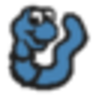
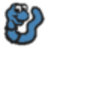
Images for worms changed for better representation on the gamefield. Second Sprite is generated. Changes to parts of the code to fix errors. Both Sprites still move together.

diff --git a/android/src/com/mygdx/game/Activities/CharacterSelect.java b/android/src/com/mygdx/game/Activities/CharacterSelect.java
@@ -8,10 +8,8 @@ import android.widget.TextView;
 
 import com.mygdx.game.Players.PlayerColor;
 import com.mygdx.game.R;
-
 import com.mygdx.game.netwoking.FromNetworkProcessor;
 import com.mygdx.game.netwoking.GameSync;
-import com.mygdx.game.netwoking.NetworkManager;
 import com.mygdx.game.netwoking.NetworkTrafficReceiver;
 
 /**
@@ -23,11 +21,15 @@ import com.mygdx.game.netwoking.NetworkTrafficReceiver;
  */
 public class CharacterSelect extends Activity {
 
+    private static final String PLAYER_READY_MESSAGE = "READY2PLAY";
+
     private Intent intent;
 
     private TextView chosenPlayer;
     private TextView playername;
     private NetworkTrafficReceiver networkTrafficReceiver;
+    private boolean otherPlayerReady = false;
+    private boolean waitingForOtherPlayer = false;
 
     private PlayerColor color;
     private PlayerColor colorOtherPlayer;
@@ -78,16 +80,43 @@ public class CharacterSelect extends Activity {
      */
     public void onClickStartGame(View view) {
 
-        if (GameSync.isMultiplayerGame() && GameSync.getState() != GameSync.GameState.OTHER_PLAYER_HAS_WORM_SELECTED) {
-            chosenPlayer.setText("Plese wait for other player");
+        //  NetworkManager.send(PLAYER_READY_MESSAGE, true); todo
+
+        if (color == null) {
+            chosenPlayer.setText("Please select worm color!");
             chosenPlayer.setVisibility(View.VISIBLE);
+            return;
         }
+
+//        if (NetworkMonitor.isConnected() && colorOtherPlayer == null) { todo
+//            setMessage("Please wait for other player");
+//            chosenPlayer.setVisibility(View.VISIBLE);
+//            return;
+//        }
+
+//        if (!otherPlayerReady) { todo
+//            setMessage("Please wait for other player!");
+//            waitingForOtherPlayer = true;
+//            return;
+//        }
+
         intent = new Intent(this, MainGameActivity.class);
 
         intent.putExtra("Player_Color", color.toString());
 
         startActivity(intent);
     }
+
+    private void setMessage(final String message) {
+        runOnUiThread(new Runnable() {
+            @Override
+            public void run() {
+                chosenPlayer.setText(message);
+                chosenPlayer.setVisibility(View.VISIBLE);
+            }
+        });
+    }
+
 
     /**
      * onClickGoBackToMenu switches from the character selection screen back
@@ -108,8 +137,8 @@ public class CharacterSelect extends Activity {
      */
     public void redButtonclicked(View view) {
 
-        chosenPlayer.setText("Es wurde die rote Spielfigur gewählt.");
-        chosenPlayer.setVisibility(View.VISIBLE);
+        setMessage("Es wurde die rote Spielfigur gewählt.");
+
 
         color = PlayerColor.RED;
         sendSelectedColor();
@@ -122,8 +151,7 @@ public class CharacterSelect extends Activity {
      */
     public void blueButtonclicked(View view) {
 
-        chosenPlayer.setText("Es wurde die blaue Spielfigur gewählt.");
-        chosenPlayer.setVisibility(View.VISIBLE);
+        setMessage("Es wurde die blaue Spielfigur gewählt.");
 
         color = PlayerColor.BLUE;
         sendSelectedColor();
@@ -136,8 +164,7 @@ public class CharacterSelect extends Activity {
      */
     public void greenButtonclicked(View view) {
 
-        chosenPlayer.setText("Es wurde die grüne Spielfigur gewählt.");
-        chosenPlayer.setVisibility(View.VISIBLE);
+        setMessage("Es wurde die grüne Spielfigur gewählt.");
 
         color = PlayerColor.GREEN;
         sendSelectedColor();
@@ -150,15 +177,14 @@ public class CharacterSelect extends Activity {
      */
     public void yellowButtonclicked(View view) {
 
-        chosenPlayer.setText("Es wurde die gelbe Spielfigur gewählt.");
-        chosenPlayer.setVisibility(View.VISIBLE);
+        setMessage("Es wurde die gelbe Spielfigur gewählt.");
 
         color = PlayerColor.YELLOW;
         sendSelectedColor();
     }
 
     private void sendSelectedColor() {
-        NetworkManager.send(color.toString(), true);
+        //NetworkManager.send(color.toString(), true); todo
     }
 
     /**
@@ -168,22 +194,22 @@ public class CharacterSelect extends Activity {
      */
     public void processMessageFromNetwork(final String inputString) {
 
+        if (inputString.equals(PLAYER_READY_MESSAGE)) {
+            this.otherPlayerReady = true;
+            if (waitingForOtherPlayer) {
+                onClickStartGame(findViewById(R.id.start_game_button));
+            } else {
+                setMessage("Other player is ready!");
+            }
+        }
+
         PlayerColor playerColor = PlayerColor.getFromString(inputString);
 
         if (playerColor != null) {
-            runOnUiThread(new Runnable() {
-                @Override
-                public void run() {
-                    chosenPlayer.setText("Other player chose worm with color: " + inputString);
-                    chosenPlayer.setVisibility(View.VISIBLE);
-                }
-            });
-
+            setMessage("Other player chose worm with color: " + inputString);
             this.colorOtherPlayer = playerColor;
             GameSync.getSync().otherPlayerHasSelectedWorm();
-
         }
-
     }
 
 }

diff --git a/android/src/com/mygdx/game/GUI/Main.java b/android/src/com/mygdx/game/GUI/Main.java
@@ -19,6 +19,7 @@ import com.mygdx.game.game.Field;
 import com.mygdx.game.game.GameField;
 import com.mygdx.game.main_controler.Controler;
 
+import java.util.ArrayList;
 import java.util.List;
 import java.util.Observable;
 import java.util.Observer;
@@ -44,7 +45,8 @@ public class Main extends ApplicationAdapter implements Observer {
     private String color3;
     private String color4;
     private static GameField gameField;
-    private final RenderPositionCalculator renderPositionCalculator;
+    private final RenderPositionCalculator renderPositionCalculator1;
+    private final RenderPositionCalculator renderPositionCalculator2;
     private static CheatCountDown cheatCountDown;
     private static int time = 0;
     private static boolean diceAnimationActive = false;
@@ -71,7 +73,8 @@ public class Main extends ApplicationAdapter implements Observer {
      */
     public Main(List<Object[]> playerList) {
         gameField = GameField.createGameField();
-        this.renderPositionCalculator = new RenderPositionCalculator(gameField);
+        this.renderPositionCalculator1 = new RenderPositionCalculator(gameField);
+        this.renderPositionCalculator2 = new RenderPositionCalculator(gameField);
         this.color1 = (String) playerList.get(0)[0];
         this.color2 = (String) playerList.get(1)[0];
         this.color3 = (String) playerList.get(2)[0];
@@ -95,9 +98,22 @@ public class Main extends ApplicationAdapter implements Observer {
 
         int numberOfPlayers = Controler.getNumberOfPlayers();
 
+        Controler.setSingleplayerBoolean(true);     //THIS IS ONLY TEMPORARY AND NEEDS TO BE REPLACED SOON!
+
         //initialisieren der Textur der Spielfigur
         texturePlayer1 = new Sprite(new Texture(Gdx.files.internal(String.format("player_%s.png", color1))));
-//        texturePlayer2 = new Sprite(new Texture(Gdx.files.internal(String.format("player_%s.png", color2))));
+        if (Controler.getSingleplayerBoolean()) {
+            if (color1.equals("red")){
+                texturePlayer2 = new Sprite(new Texture(Gdx.files.internal("player_blue.png")));
+            }
+            else {
+                texturePlayer2 = new Sprite(new Texture(Gdx.files.internal("player_red.png")));
+            }
+
+        }
+        else{
+            texturePlayer2 = new Sprite(new Texture(Gdx.files.internal(String.format("player_%s.png", color2))));
+        }
 //        texturePlayer3 = new Sprite(new Texture(Gdx.files.internal(String.format("player_%s.png", color3))));
 //        texturePlayer4 = new Sprite(new Texture(Gdx.files.internal(String.format("player_%s.png", color4))));
 
@@ -112,10 +128,14 @@ public class Main extends ApplicationAdapter implements Observer {
 
 
         //Texture des Wurms
-        playerOne = new Worm(texturePlayer1, renderPositionCalculator);
-//        playerTwo = new Worm(texturePlayer2, renderPositionCalculator);
-//        playerThree = new Worm(texturePlayer3, renderPositionCalculator);
-//        playerFour = new Worm(texturePlayer4, renderPositionCalculator);
+        playerOne = new Worm(texturePlayer1, renderPositionCalculator1);
+        playerTwo = new Worm(texturePlayer2, renderPositionCalculator2);
+//        playerThree = new Worm(texturePlayer3, renderPositionCalculator1);
+//        playerFour = new Worm(texturePlayer4, renderPositionCalculator1);
+
+        List<Worm> wormList = new ArrayList<>();
+        wormList.add(playerOne);
+        wormList.add(playerTwo);
 
 
         // gibt jedem einzelnen Feld des Spielfelds ein Texture
@@ -136,7 +156,7 @@ public class Main extends ApplicationAdapter implements Observer {
         for (int i = 1; i <= fields.size(); i++) {
 
 
-            SingleField singleField = new SingleField(tile1, renderPositionCalculator, i);
+            SingleField singleField = new SingleField(tile1, renderPositionCalculator1, i);
             stage.addActor(singleField);
         }
 
@@ -149,7 +169,7 @@ public class Main extends ApplicationAdapter implements Observer {
 
         for (int i = 0; i < elevatorFields.length; i++) {
 
-            SingleField singleField = new SingleField(tile2, renderPositionCalculator, elevatorFields[i]);
+            SingleField singleField = new SingleField(tile2, renderPositionCalculator1, elevatorFields[i]);
             stage.addActor(singleField);
         }
 
@@ -165,6 +185,10 @@ public class Main extends ApplicationAdapter implements Observer {
         Gdx.gl.glClear(GL20.GL_COLOR_BUFFER_BIT);
 
         stage.addActor(playerOne);
+
+        if (Controler.getSingleplayerBoolean()) {
+            stage.addActor(playerTwo);
+        }
 
         stage.addActor(cheatCountDown);
 

diff --git a/android/src/com/mygdx/game/game/GameField.java b/android/src/com/mygdx/game/game/GameField.java
@@ -3,6 +3,8 @@ package com.mygdx.game.game;
 
 import android.util.Log;
 
+import com.mygdx.game.main_controler.Controler;
+
 import java.util.ArrayList;
 import java.util.Collections;
 import java.util.List;
@@ -25,17 +27,23 @@ public class GameField {
 
     private static int[] fieldnumbers = new int[NUMBEROF_VERTICALS * NUMBEROF_HORIZONTAL];
 
-    private final Player player;
+//    private final Player player;
+//    private final Player player2;
+    private static List<Player> players;
+    private static Player currentPlayer;
+    private static int currentPlayerNumber;
 
     /**
      * Instantiates a new Game field.
      *
      * @param fields the fields
-     * @param player the player
+     * @param players the player
      */
-    public GameField(List<Field> fields, Player player) {
+    public GameField(List<Field> fields, List<Player> players) {
 
-        this.player = player;
+//        this.player = players.get(0);
+//        this.player2 = players.get(1);
+        this.players = players;
         this.fields = fields;
 
 
@@ -89,7 +97,12 @@ public class GameField {
      */
     public Player getPlayer() {
 
-        return player;
+        return currentPlayer;
+    }
+
+    public static void nextPlayer(){
+        currentPlayerNumber = (currentPlayerNumber+1)%4;
+        currentPlayer = players.get(currentPlayerNumber);
     }
 
     /**
@@ -99,7 +112,7 @@ public class GameField {
      */
     public Field getFieldofPlayer() {
 
-        return player.getCurrentField();
+        return currentPlayer.getCurrentField();
     }
 
     /**
@@ -149,12 +162,21 @@ public class GameField {
         List<Field> sortedFields = snakeOrder(fields);
         sortNextField(sortedFields);
 
+        List<Player> players = new ArrayList<>();
+
         Player playerOne = new Player(sortedFields.get(sortedFields.size() - 1));
-//        Player playerTwo = new Player(sortedFields.get(sortedFields.size() - 1));
+        players.add(playerOne);
+
+        Player playerTwo = new Player(sortedFields.get(sortedFields.size() - 1));
+        players.add(playerTwo);
+
+        currentPlayer = playerOne;
+        currentPlayerNumber = 0;
+
 //        Player playerThree = new Player(sortedFields.get(sortedFields.size() - 1));
 //        Player playerFour = new Player(sortedFields.get(sortedFields.size() - 1));
 
-        return new GameField(sortedFields, playerOne);
+        return new GameField(sortedFields, players);
 
     }
 

diff --git a/android/src/com/mygdx/game/main_controler/Controler.java b/android/src/com/mygdx/game/main_controler/Controler.java
@@ -1,5 +1,7 @@
 package com.mygdx.game.main_controler;
 
+import android.util.Log;
+
 import com.badlogic.gdx.Gdx;
 import com.badlogic.gdx.InputProcessor;
 import com.badlogic.gdx.graphics.OrthographicCamera;
@@ -20,13 +22,16 @@ import com.mygdx.game.game.Player;
 public class Controler implements InputProcessor {
 
     //    boolean cheatMode = true;               //Stud for the cheat mode
-    private static Sprite diceSprite = Main.getDiceSprite();
-    private static Dice dice = Main.getDice();
+//    private static Sprite diceSprite = Main.getDiceSprite();
+    private static Sprite diceSprite;
+//    private static Dice dice = Main.getDice();
+    private Dice dice;
     private static GameField gameField = Main.getGameField();
     private static CheatCountDown cheatCountDown = Main.getCheatCountdown();
     private static OrthographicCamera camera = Main.getCamera();
     private static int currentFieldnumber = gameField.getPlayer().getCurrentField().getFieldnumber();
     private static int numberOfPlayers = 0;
+    private static boolean singleplayerBoolean = false;
 
     private static final String TAG = "Controler";
 
@@ -169,6 +174,14 @@ public class Controler implements InputProcessor {
         return numberOfPlayers;
     }
 
+    public static boolean getSingleplayerBoolean(){
+        return singleplayerBoolean;
+    }
+
+    public static void setSingleplayerBoolean(boolean state){
+        singleplayerBoolean = state;
+    }
+
     @Override
     public boolean keyDown(int keycode) {
         return false;
@@ -201,8 +214,10 @@ public class Controler implements InputProcessor {
 
 
             if(!wormOne.stillMoving()){
-                movement(gameField.getPlayer(), dice);
-                diceSprite.setTexture(dice.getDiceTexture());
+                movement(gameField.getPlayer(), Main.getDice());
+//                diceSprite.setTexture(dice.getDiceTexture());
+                diceSprite = Main.getDiceSprite();
+                diceSprite.setTexture(Main.getDice().getDiceTexture());
                 Main.setDiceAnimationTrue();
 
             }
